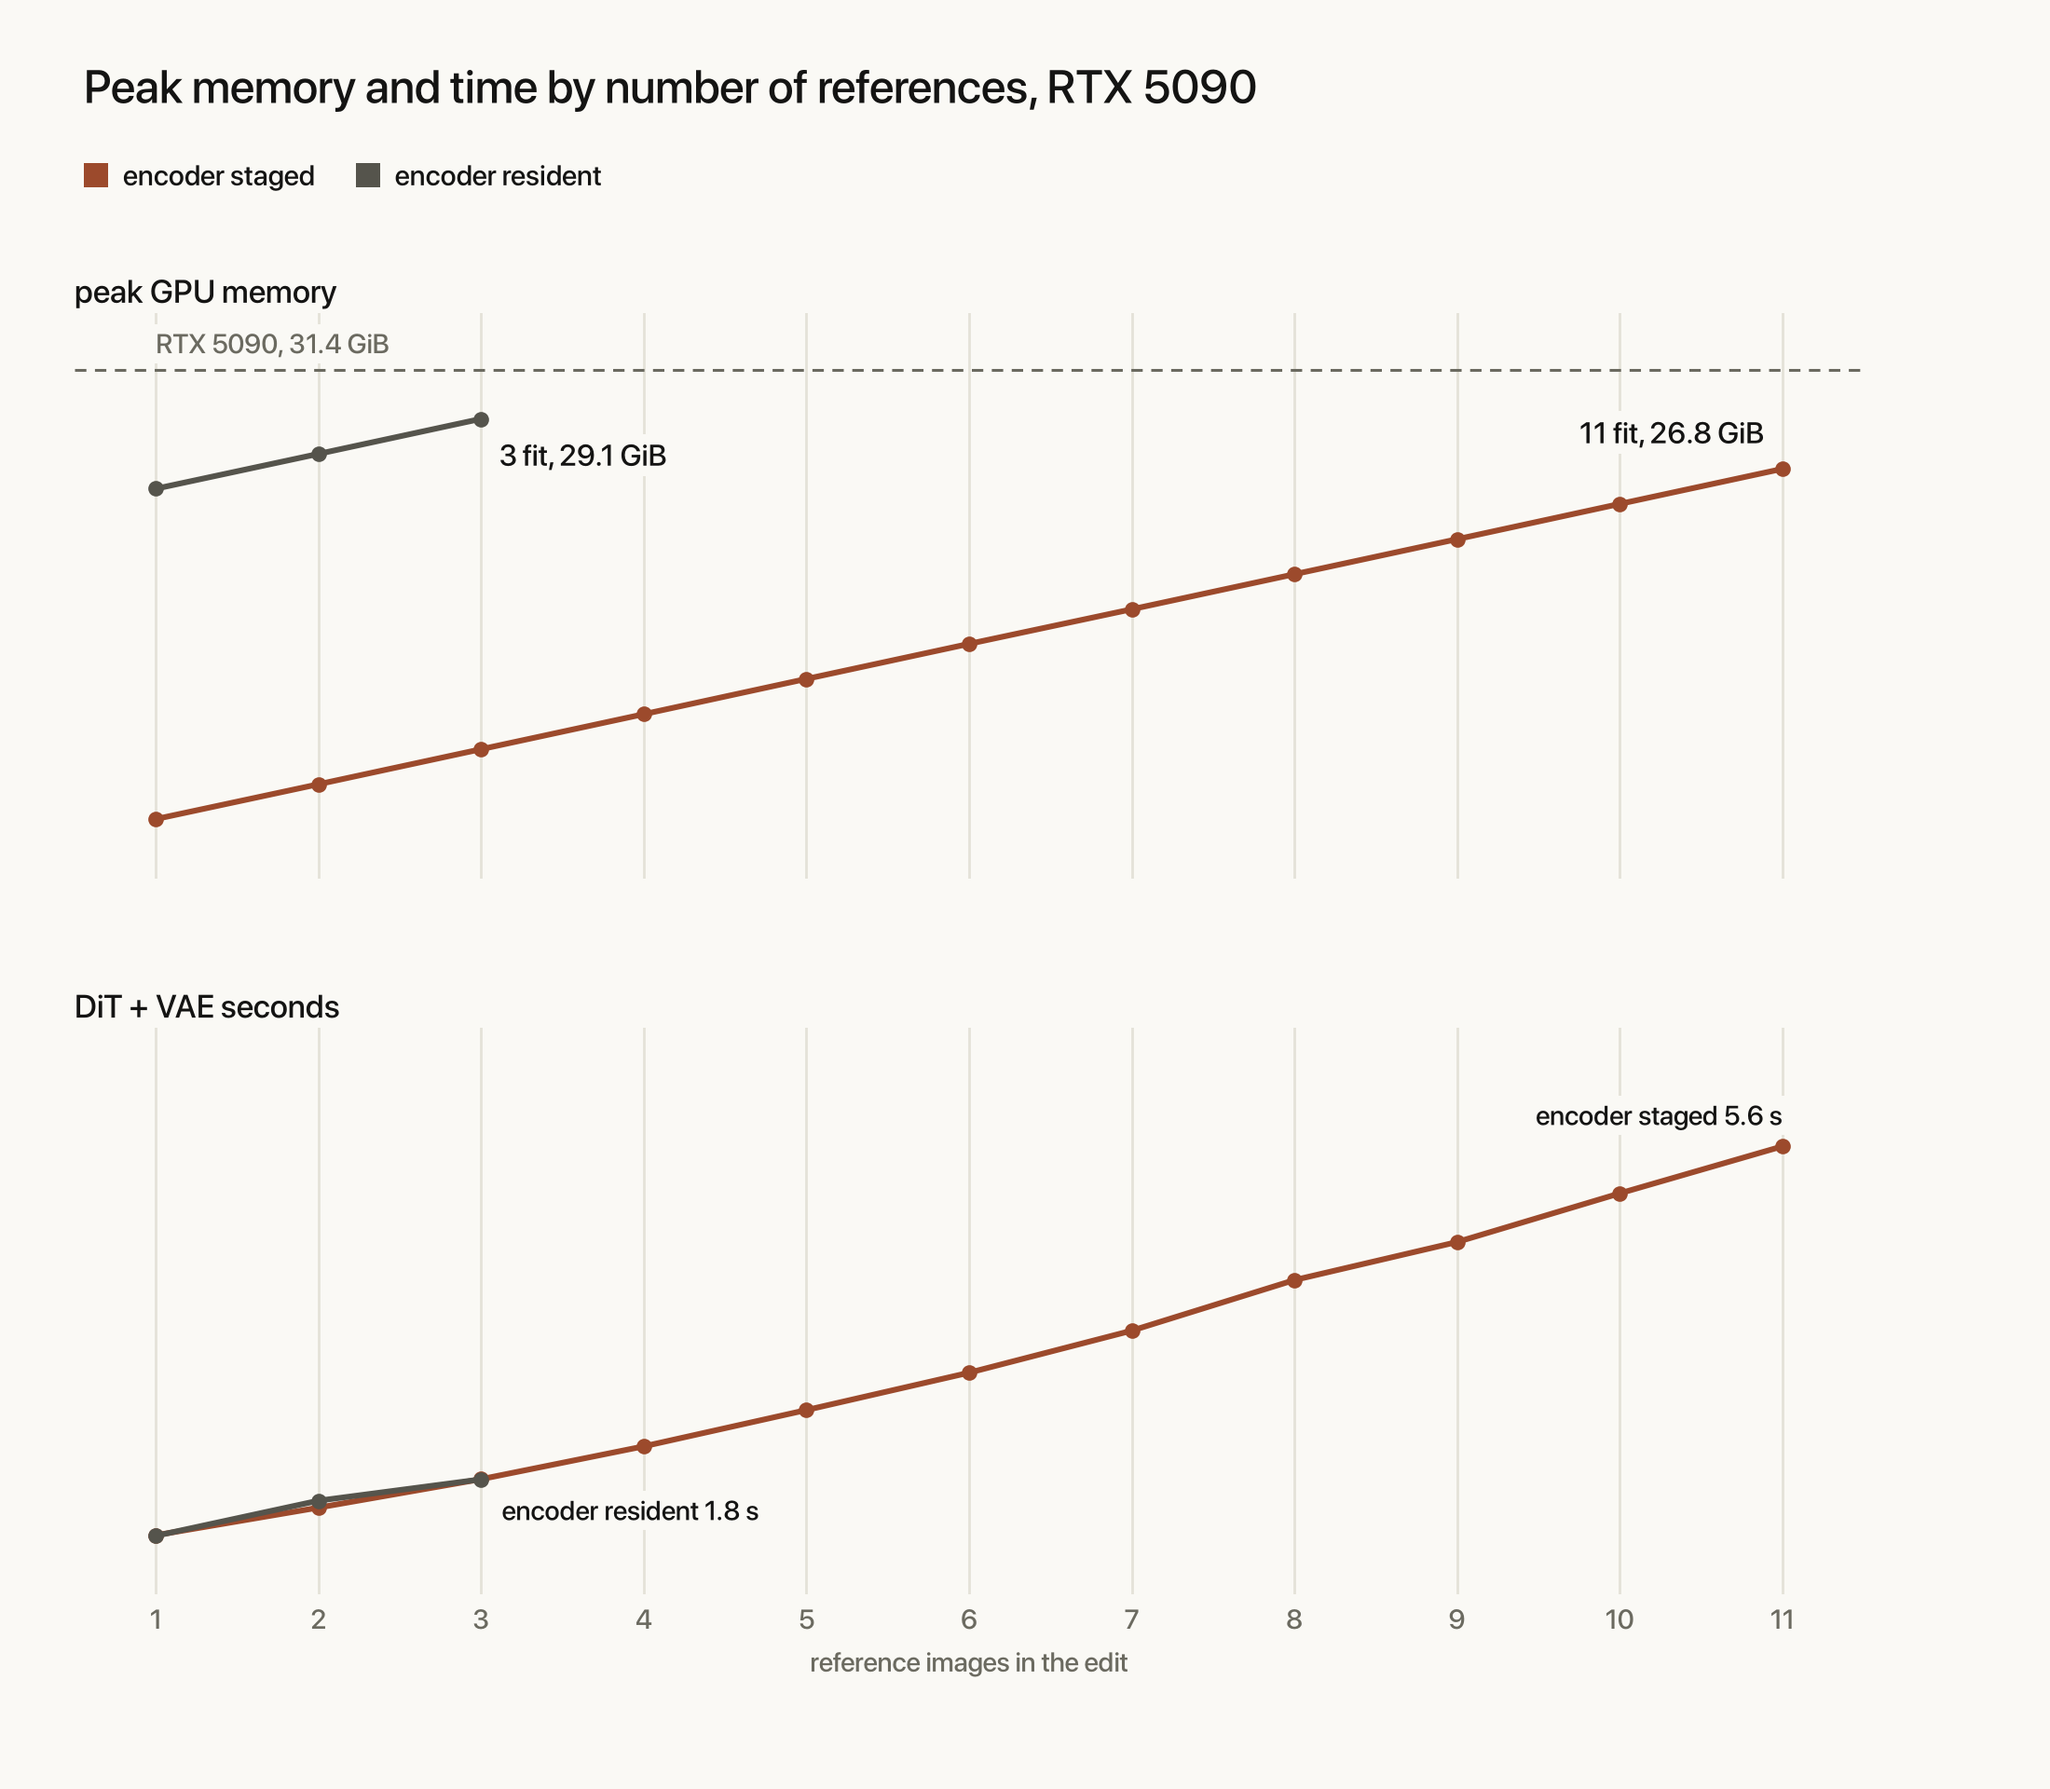
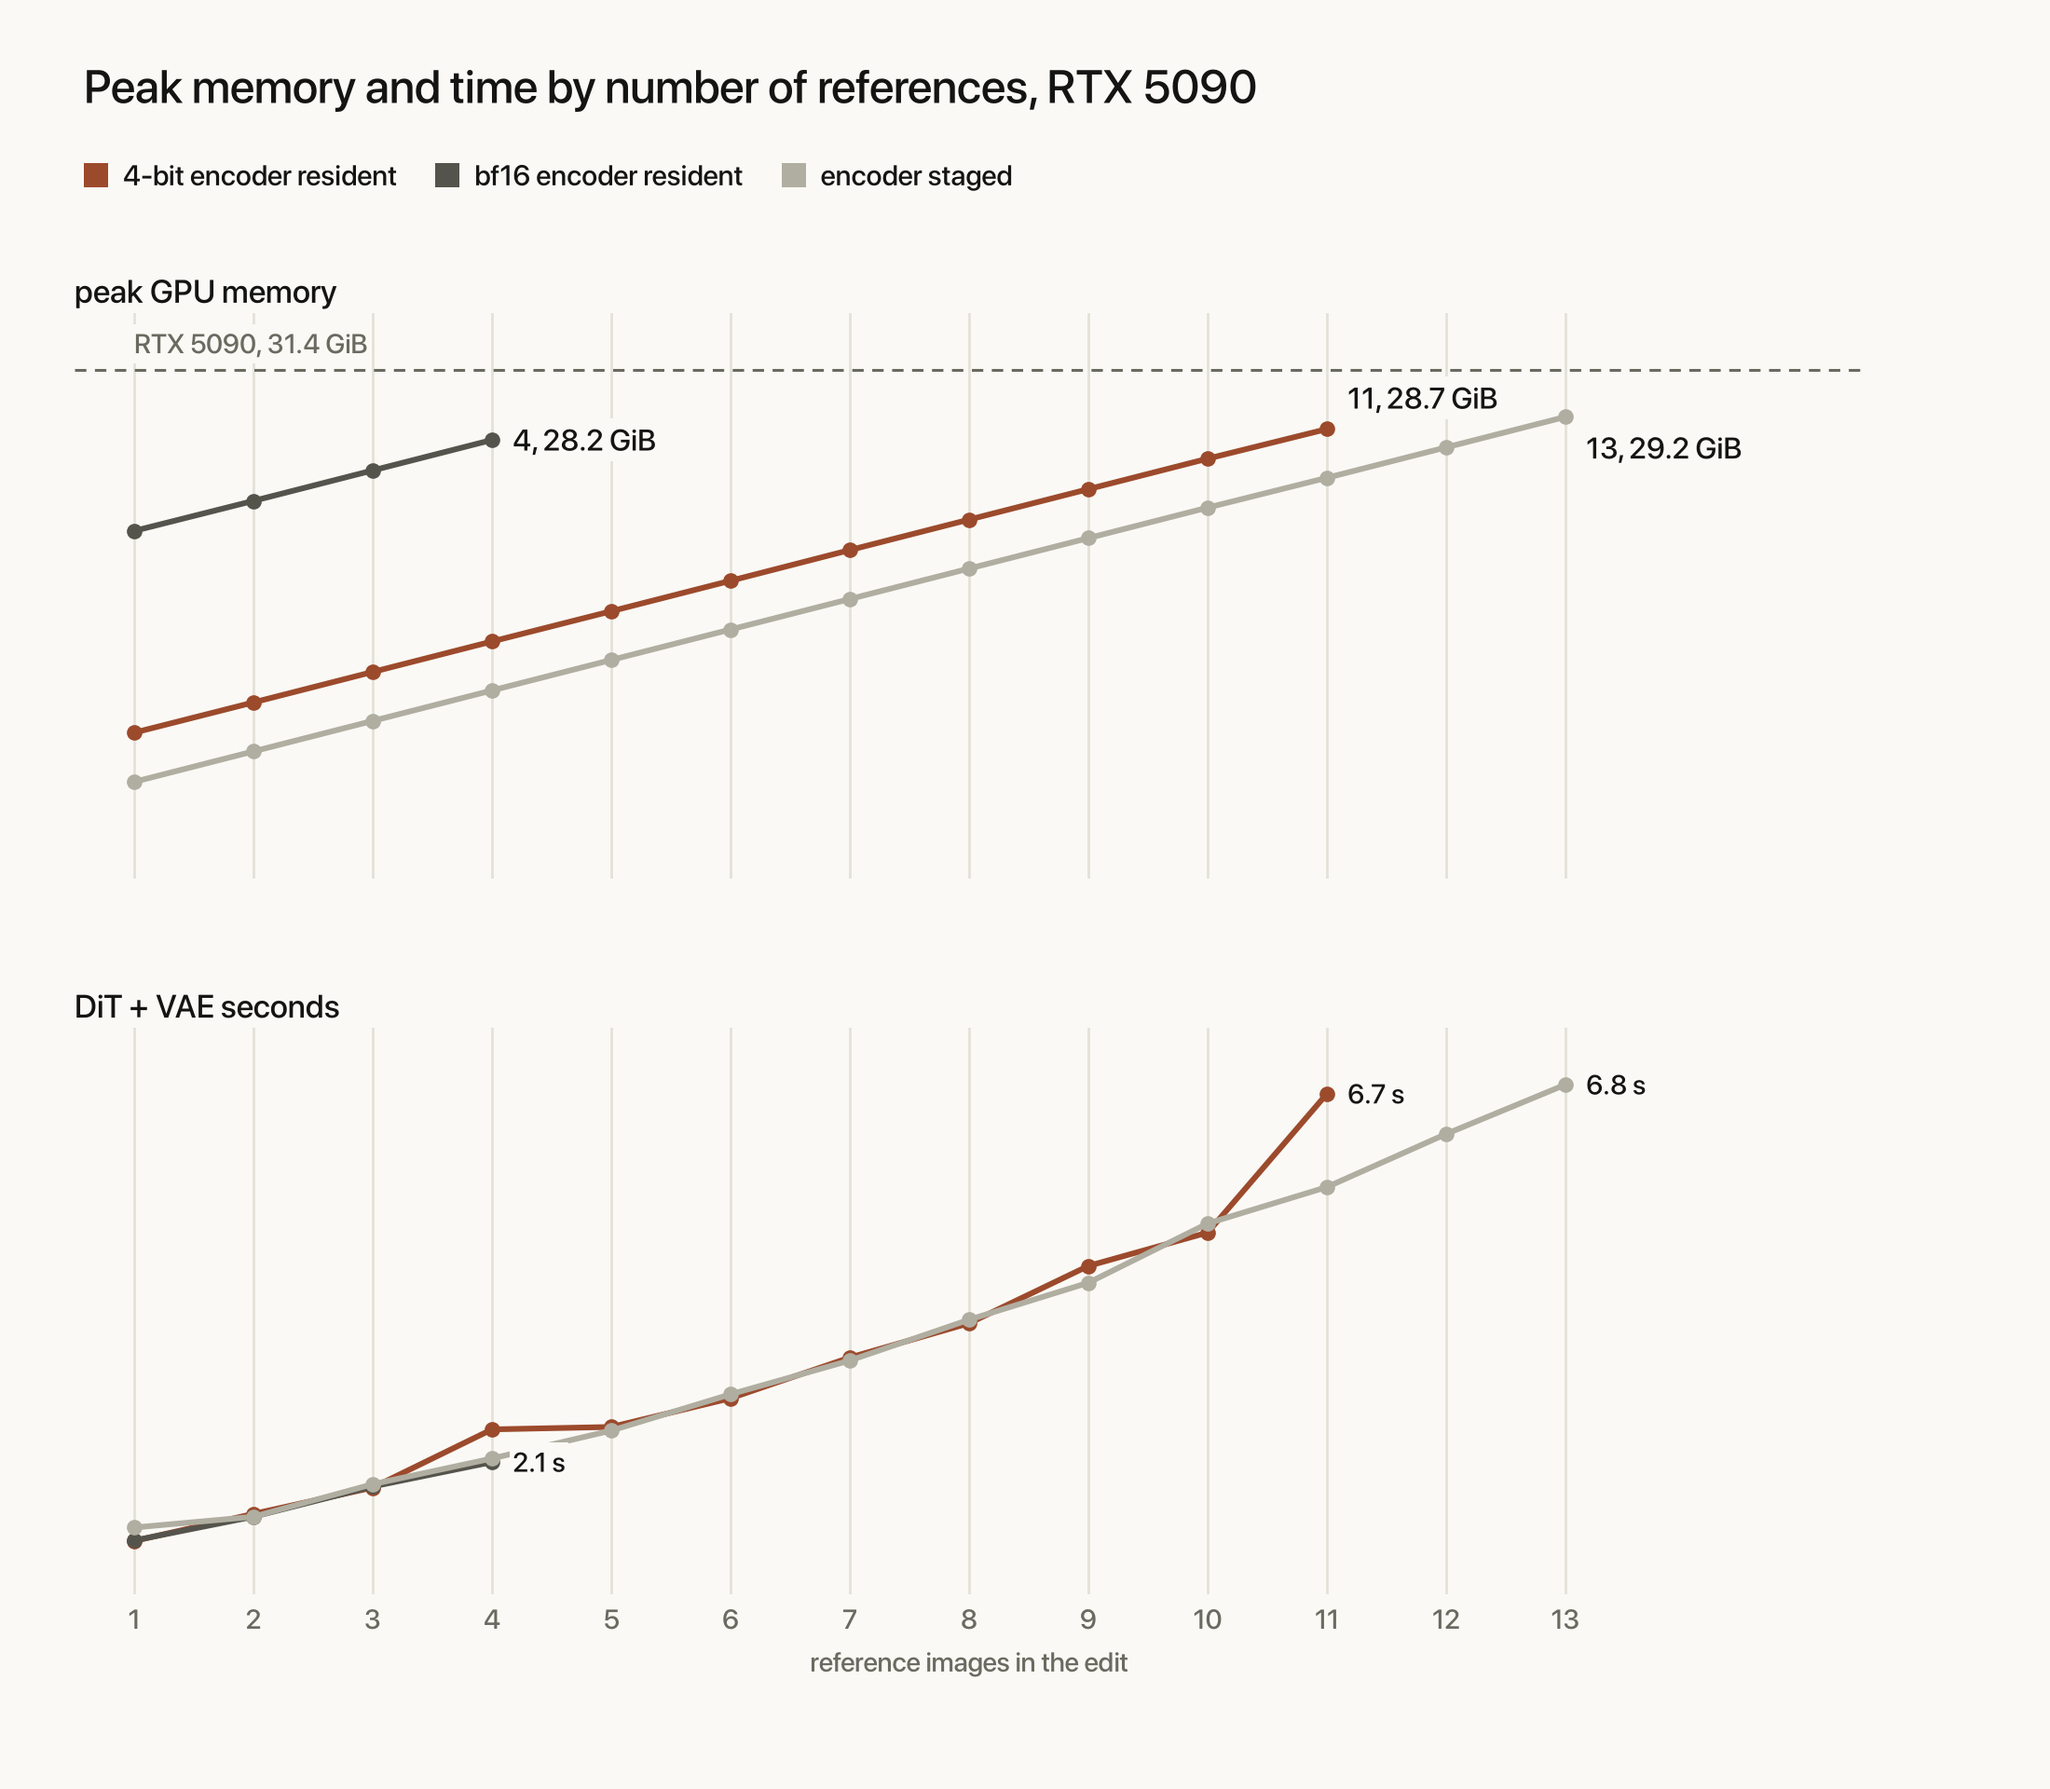
5090 reference limits re-measured with both encoders: 11 at 1024 and 6 at 2048 (1448 refs) with the 4-bit encoder resident, 4 and 2 with bf16, 13 and 7 staged; pro 6000 takes 10+ (41/35 nvfp4, 36/30 bf16); readme limits and parking text, references chart with three series
Claude-Session: https://claude.ai/code/session_015HF67wbVJDS1ES9eDttvpc

diff --git a/README.md b/README.md
@@ -86,9 +86,9 @@ repeat with another seed or size skips the encoder (`remembered` is then true). 
 `GET /health` reports the card.
 
 On a card under 40 GiB the text encoder steps aside to host memory when a request is too large to share
-the card with it, which costs about 0.4 s on that request and the next. With the 4-bit encoder that is past a
-2048² edit with a 2048² reference (or seven 1024² references); with the bf16 encoder, any 2048² request or more
-than three 1024² references. Stepping aside needs free host memory the size of the encoder.
+the card with it, which costs about 0.4 s on that request and the next. That is past twelve 1024² images of output
+plus references with the 4-bit encoder (a 1024² edit with eleven references stays resident), and past five with the
+bf16 encoder (four references). Stepping aside needs free host memory the size of the encoder.
 
 | environment | |
 |---|---|
@@ -116,8 +116,11 @@ Edit a generated image with a different seed from the one that drew it; the same
 ## limits
 
 - A 2048² edit on an RTX 5090 stays fully resident: 5.35 s and 18.2 GiB (1448² reference), 6.45 s and 19.7 GiB
-  with a 2048² reference; with the bf16 encoder, 5.41 s and 27.5 GiB. Reference counts at 1024² were measured before
-  the latest memory changes: eleven with the encoder off the card, three with the bf16 encoder resident.
+  with a 2048² reference; with the bf16 encoder, 5.41 s and 27.5 GiB.
+- References per edit, as Qwen suggests up to ten: an RTX PRO 6000 takes 10+ at both sizes with either encoder. An
+  RTX 5090 takes eleven at 1024² and six at 2048² (1448² references) with the 4-bit encoder resident, four and two
+  with the bf16 encoder, thirteen and seven with the encoder off the card. Each 1024² reference adds about 0.5 s and
+  1.4 GiB to a 1024² edit; each 1448² reference about 1.2 s and 1.9 GiB to a 2048² edit.
 - 4-bit attention is used only for 2048-class outputs; everything else runs 8-bit.
 - Text-to-image keeps the subject, style and detail, but its composition can differ from the bf16 picture for the
   same seed (DINOv2 min 0.90 at 1024² and 2048²; the NVFP4 MLP weights shift it). It is judged on quality, not on
